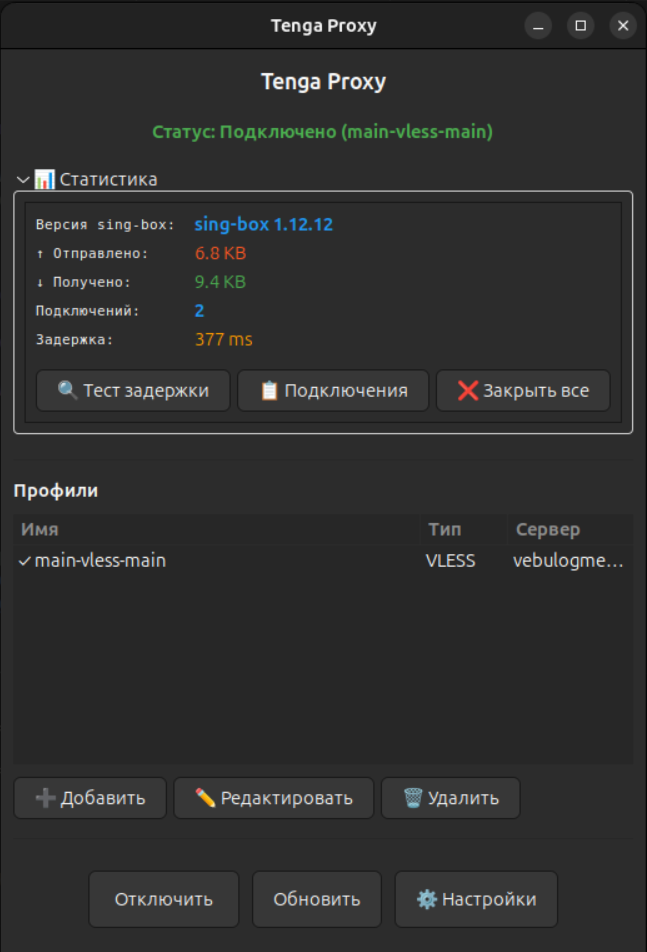
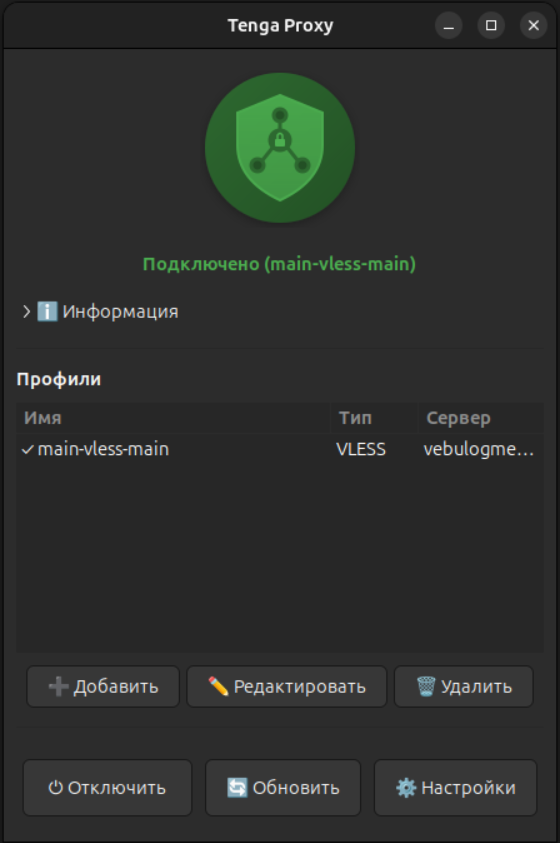
update assets (new screenshots)

diff --git a/README.md b/README.md
@@ -176,7 +176,7 @@ python gui.py
 
 ![Основное окно приложения](assets/main-screen.png)
 
-*Основное окно с развёрнутой вкладкой "Статистика"*
+*Основное окно*
 
 ![Меню системного трея](assets/tray.png)
 
